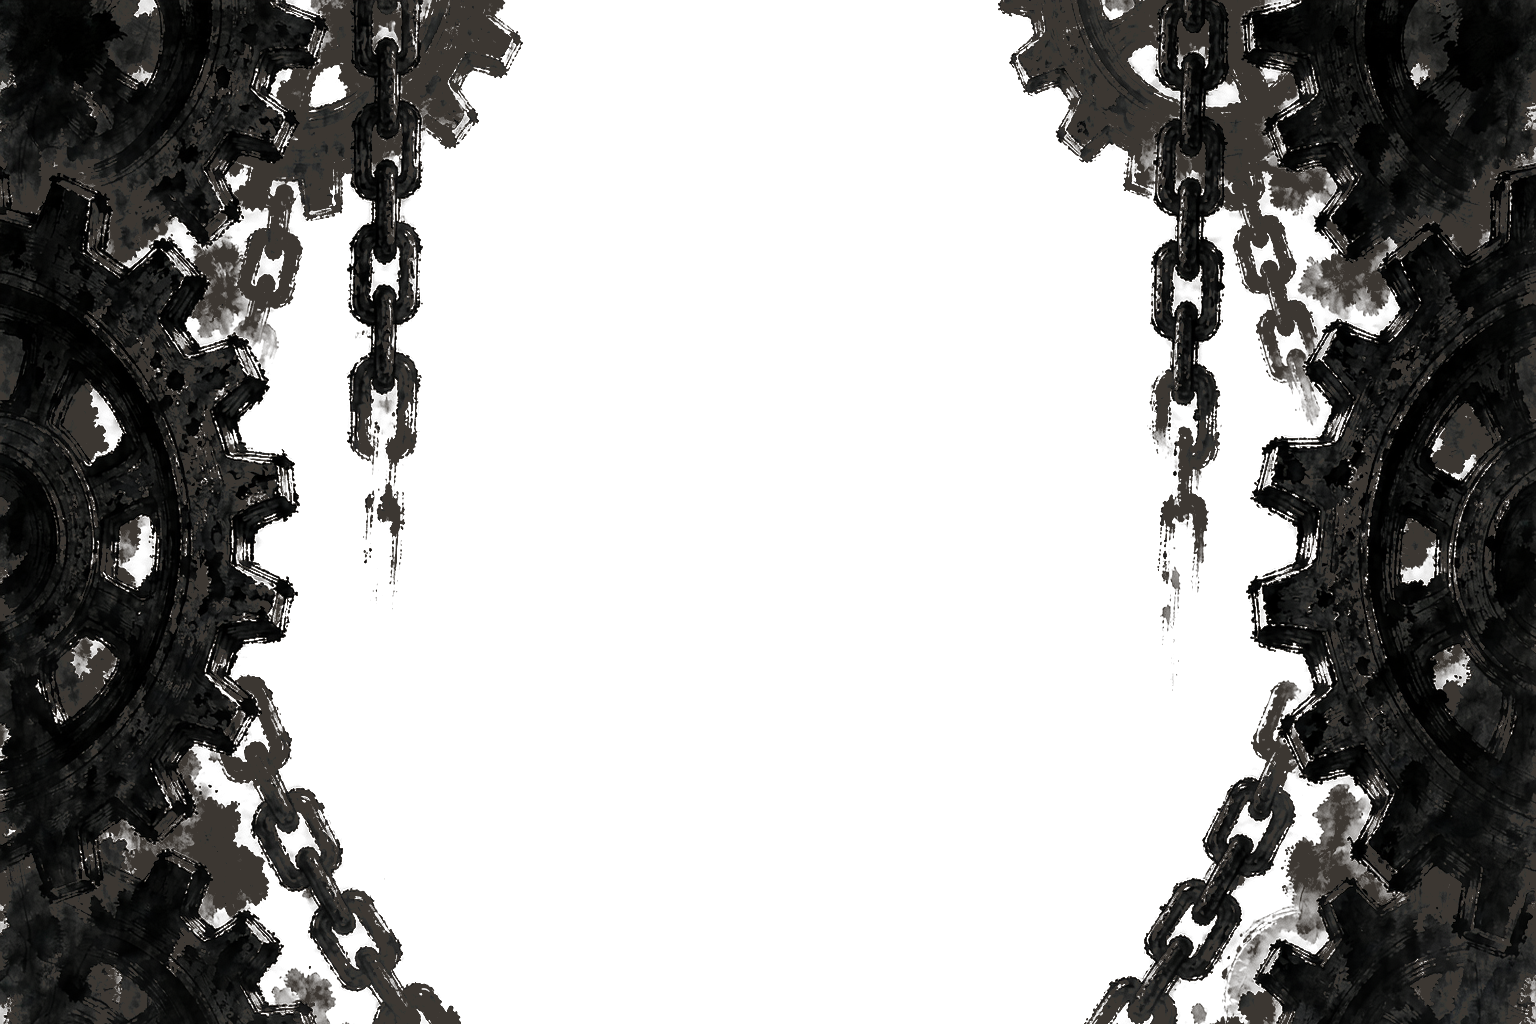
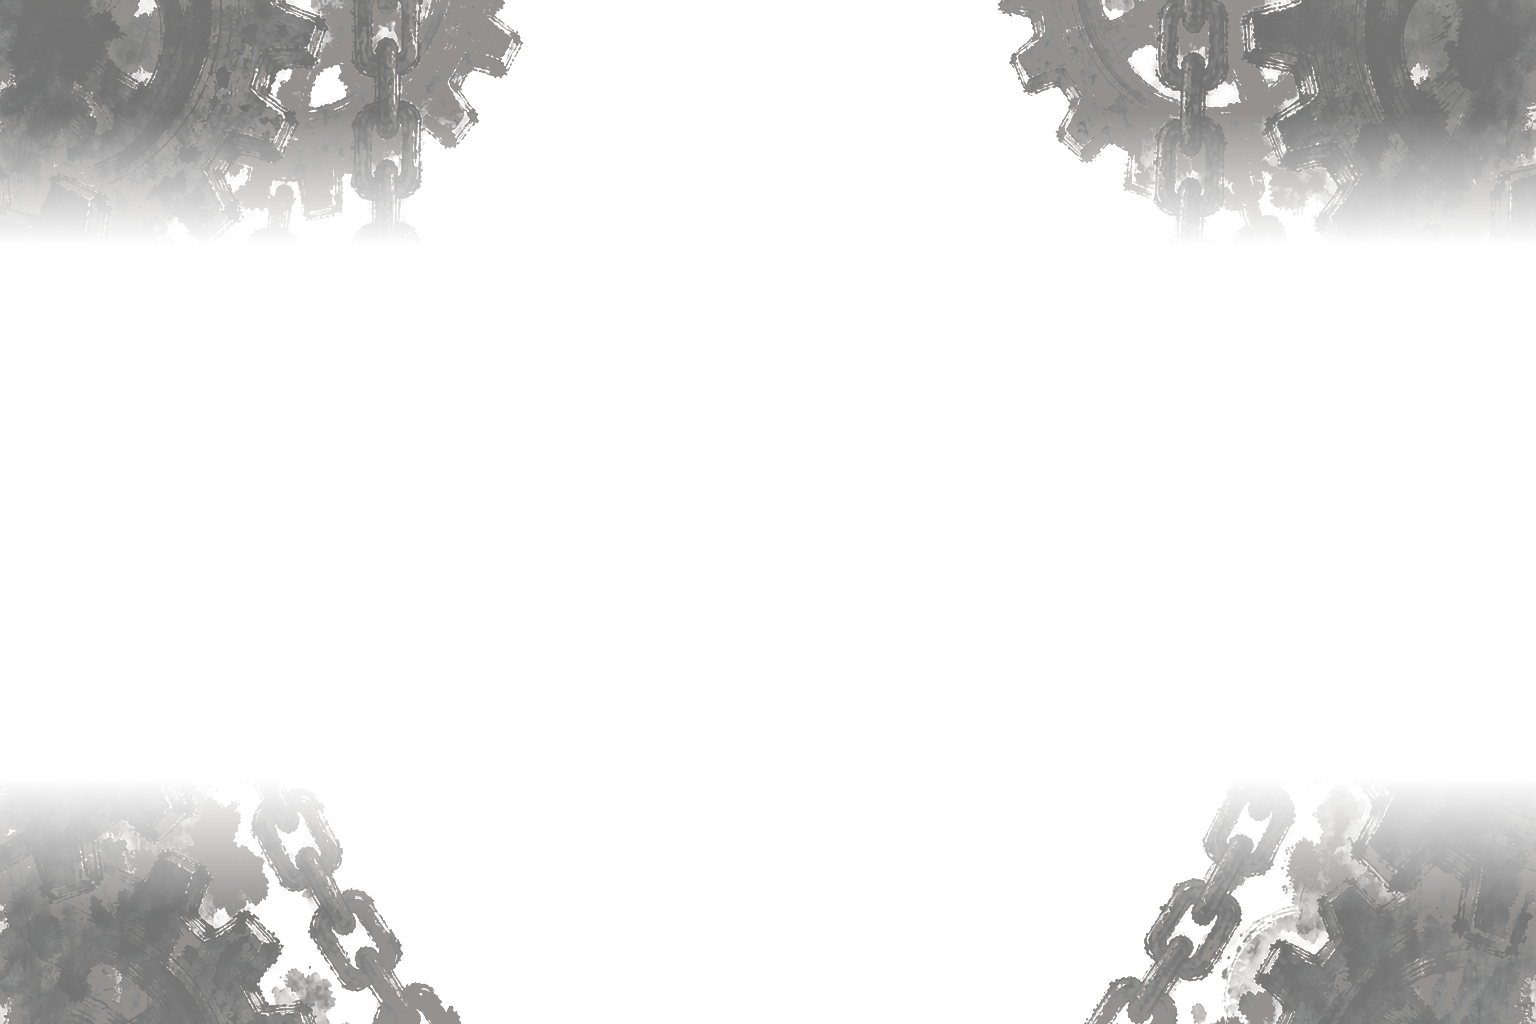
秘境战斗：层号改用真实层（原来显示"第11层"）+ 前景只留上下带、压淡
1. 层号：
   NodeRequest 新增 RealmLayer（秘境节点 = RealmLayerOf(offset)，主线置 -1）；
   BattleRequestFactory 的秘境标题用它，不再拿"幕内节点下标+1"当层号
   （原来第一层显示"第 11 层"）。
2. 前景：
   用户："前景太黑、把九宫格遮太多、要四周那种、参考季节幕"。
   · 从原图重新抠像后套**上下带遮罩**：画面中段 52% 完全透明，52%~78% 渐入；
   · 整体 alpha 再乘 0.55（墨色压淡，接近季节 FG 的观感）；
   · 实测覆盖率：苍泽 9.8% / 荆墟 13.9% / 烬岭 23.1% / 机枢 23.2% / 寂域 24.2%
     （原来 23%~89%，中段整片被盖）。

diff --git a/Assets/WanXiang/Modules/UI/CampaignPanel.cs b/Assets/WanXiang/Modules/UI/CampaignPanel.cs
@@ -33,6 +33,9 @@ namespace WanXiang.Modules.UI
         public int Act = 1;
         public int Offset = -1;
 
+        /// <summary>秘境层号（1 起）。&gt;0 表示这是秘境节点 —— 战斗标题用它，别再拿幕内下标当层号。</summary>
+        public int RealmLayer = -1;
+
         /// <summary>节点类型（决定要不要打仗、带不带劫象）。</summary>
         public WanXiang.Campaign.NodeKind Kind = WanXiang.Campaign.NodeKind.Encounter;
 
@@ -1430,6 +1433,7 @@ if (_tmpActTitle != null)
             _current.Act = 0;                            // 0 = 不属于任何一幕（与 _graph.Act 同口径）
             _current.Offset = offset;
             _current.Kind = kind;
+            _current.RealmLayer = RealmLayerOf(offset);   // ★ 秘境真实层号（1 起）
             _current.IsBoss = false;                     // 秘境首领走 RealmMap.BossOffset，不走主线 IsBoss
         }
 
@@ -2174,6 +2178,7 @@ if (_tmpActTitle != null)
             _current.Act = _graph.Act;
             _current.Offset = offset;
             _current.Kind = kind;
+            _current.RealmLayer = -1;
             // ★ 守关 = 幕末最后一格（图里它是【精英】占位，靠这个标志与"普通精英"区分）。
             //   只对**四季幕（1~4）**置位：这些幕的守关抽 BossCatalog 首领（BossSquadFor）。
             //   天阙（第 5 幕）最后一格是终局战（后土），由 TrialPanel.BuildFinaleBattle 处理，

diff --git a/Assets/WanXiang/Modules/UI/BattleRequestFactory.cs b/Assets/WanXiang/Modules/UI/BattleRequestFactory.cs
@@ -111,7 +111,8 @@ namespace WanXiang.Modules.UI
                 // ★ 2026-10-22：秘境里的战斗标题不能写"第X幕第X节"（那是主线）。
                 Title = (run != null && run.InRealm)
                     ? ("秘境 · " + (WanXiang.Campaign.RealmCatalog.For(run.RealmId) is var _rl && _rl != null ? _rl.Name : "场域") +
-                       " · 第 " + (term + 1) + " 层 · " +
+                       " · 第 " + (SceneFlow.PendingBattleNode != null && SceneFlow.PendingBattleNode.RealmLayer > 0
+                                     ? SceneFlow.PendingBattleNode.RealmLayer : (term + 1)) + " 层 · " +
                        (champion ? "镇守" : elite ? "精英战" : "遭遇战"))
                     : ("第" + Cn(act) + "幕 · 第 " + (term + 1) + " 节 · " +
                        (champion ? "镇守" : boss ? "守关（首领）" : elite ? "精英战" : "遭遇战")),
